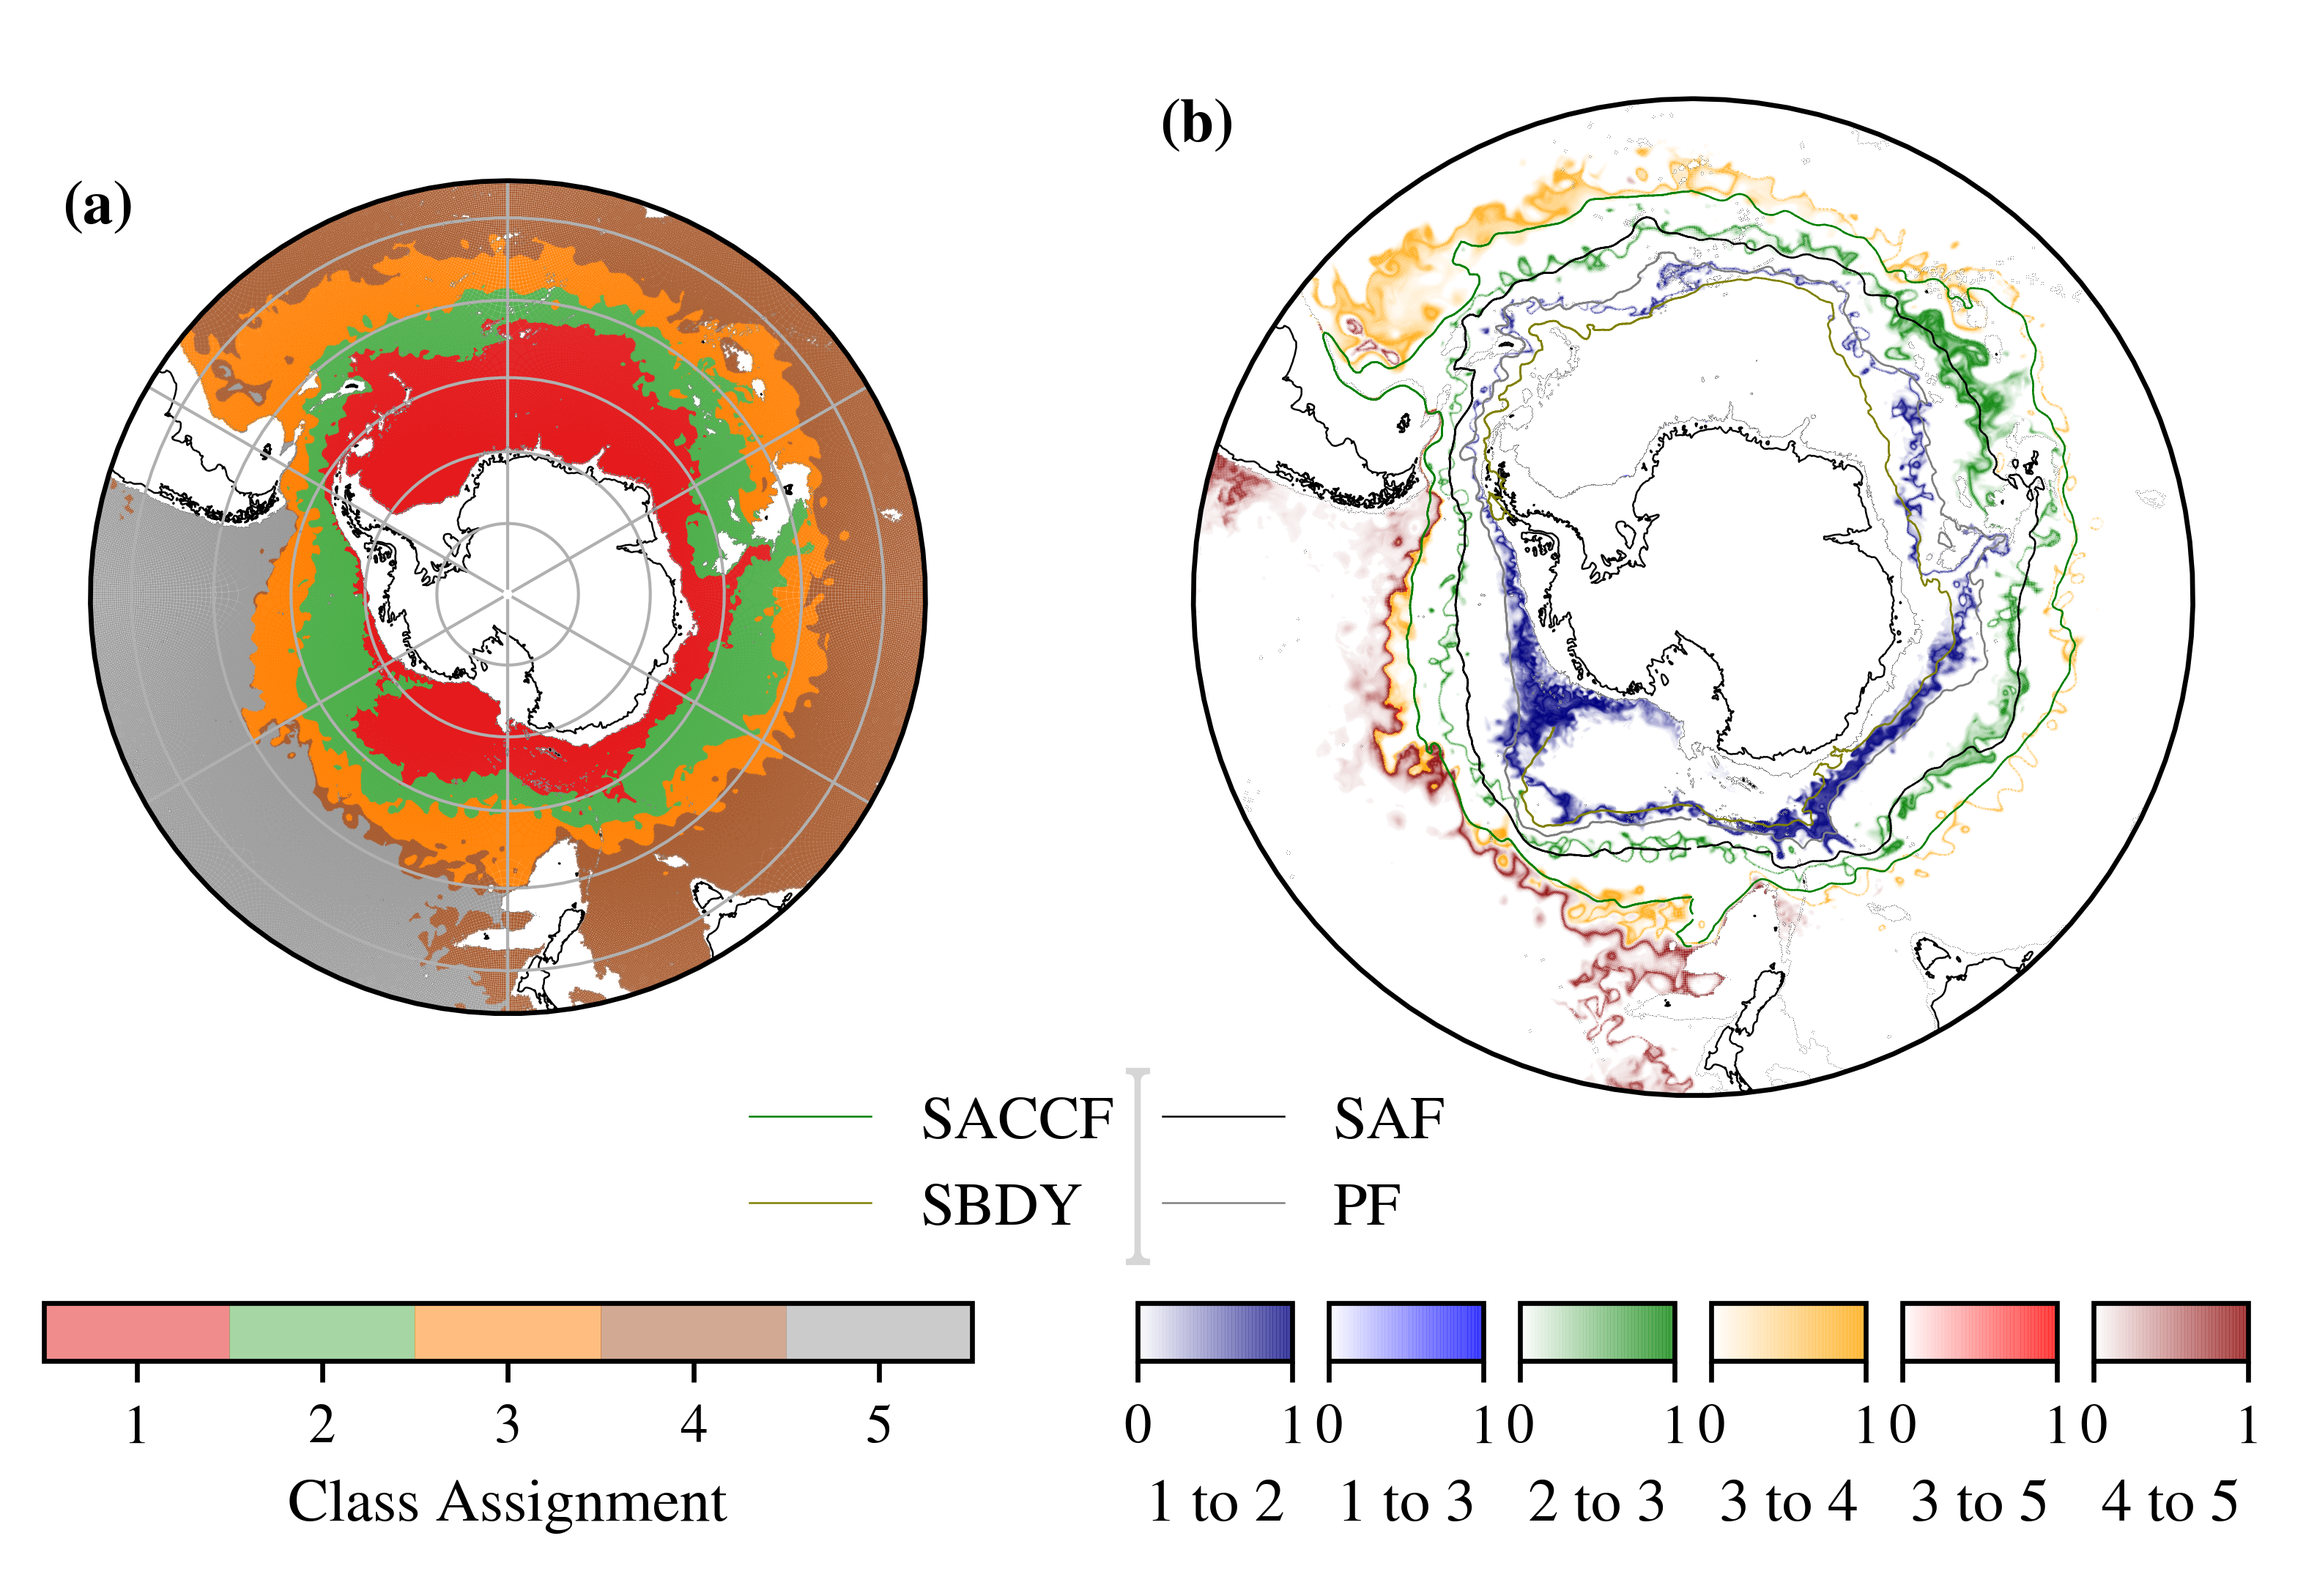
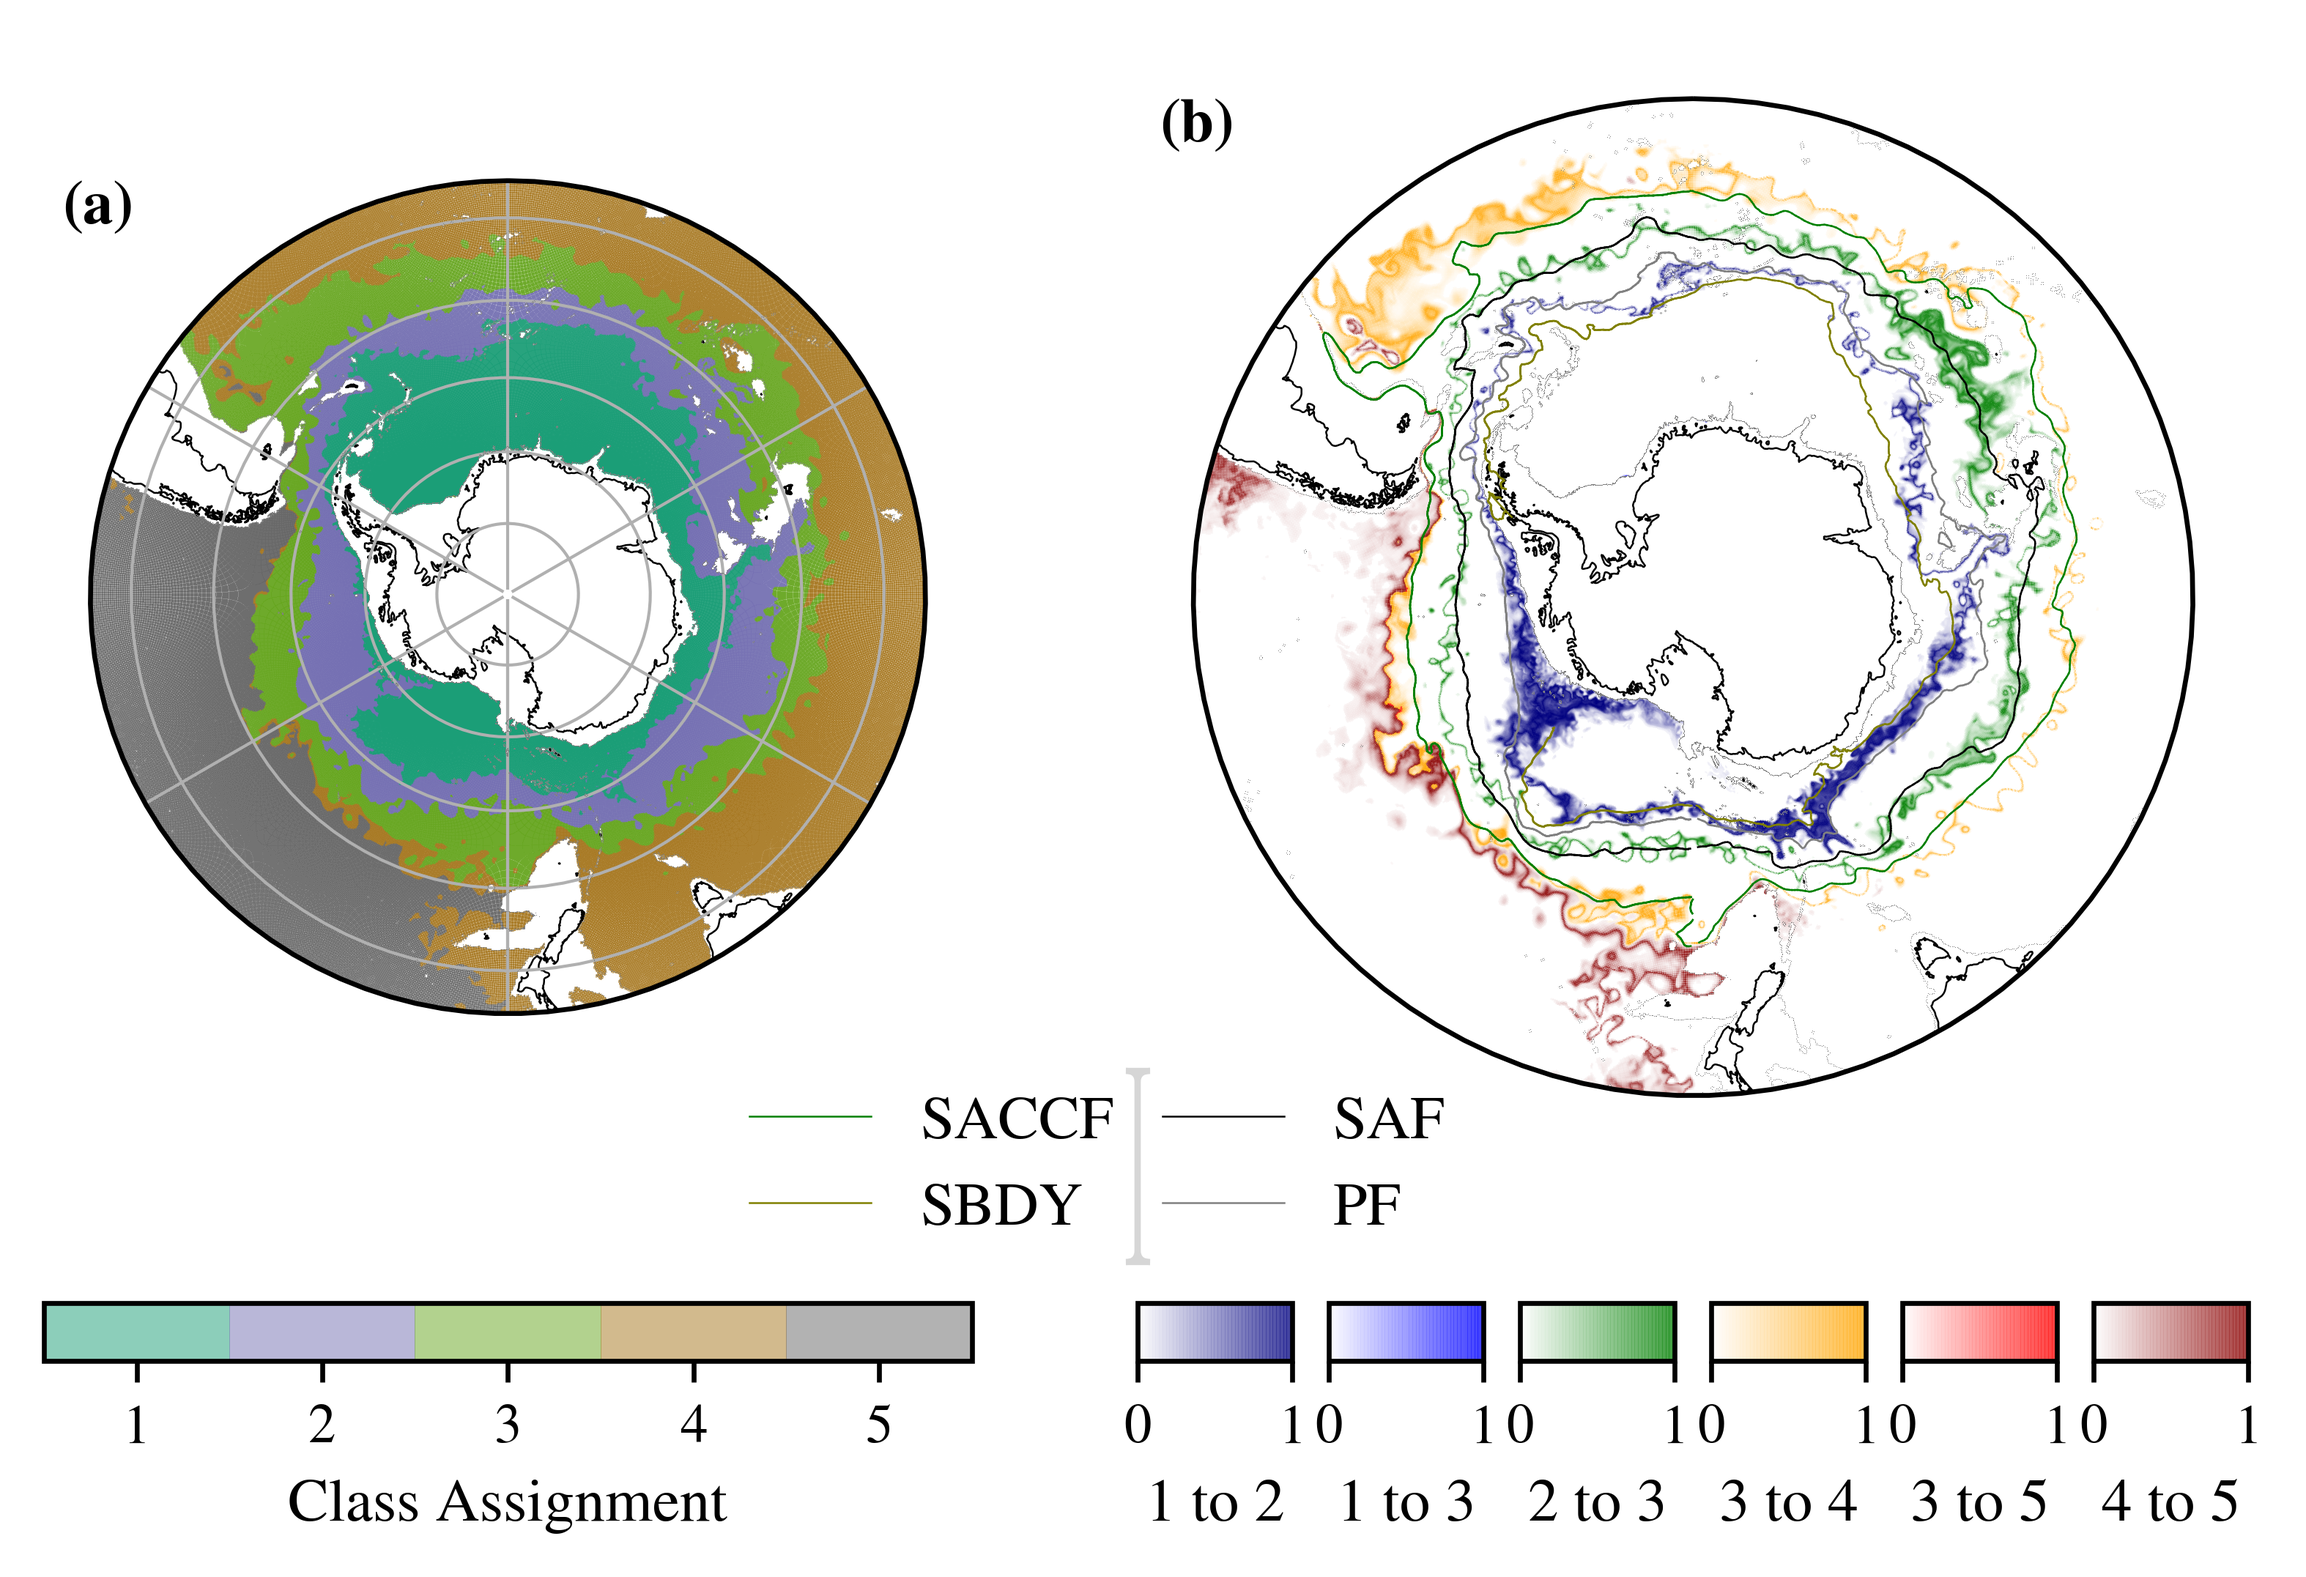
different colors

Changed region(s): [[0.0311, 0.1245, 0.4047, 0.6535], [0.0, 0.8091, 0.2802, 0.8713], [0.3424, 0.8091, 0.4358, 0.8713]]

diff --git a/src/plot/clust_3d.py b/src/plot/clust_3d.py
@@ -1,6 +1,5 @@
 """The purpose of this is the algorithm in 3D."""
 import numpy as np
-import matplotlib.cm as cm
 import matplotlib.pyplot as plt
 from matplotlib.gridspec import GridSpec
 import xarray as xr
@@ -98,7 +97,7 @@ def comp_3d(
                 principal_component_da.isel(pca=0).values.ravel(),
                 principal_component_da.isel(pca=1).values.ravel(),
                 principal_component_da.isel(pca=2).values.ravel(),
-                cmap=cm.get_cmap("Set1", len(weights)),
+                cmap=col.cluster_cmap(len(weights)),
                 c=ds.PCM_LABELS.values.ravel() + 1,
                 vmin=0.5,
                 vmax=len(weights) + 0.5,

diff --git a/src/plot/i_map.py b/src/plot/i_map.py
@@ -4,7 +4,6 @@ on the southern ocean map.
 """
 import numpy as np
 import xarray as xr
-import matplotlib.cm as cm
 import matplotlib.pyplot as plt
 from matplotlib.gridspec import GridSpec
 import cartopy.crs as ccrs
@@ -108,7 +107,7 @@ def map_imetric(da_i: xr.DataArray, da: xr.DataArray) -> None:
             im = da_i.plot(
                 ax=ax1,
                 add_colorbar=False,
-                cmap=cm.get_cmap("Set1", number_clusters),
+                cmap=col.cluster_cmap(number_clusters),
                 vmin=0.5,
                 vmax=number_clusters + 0.5,
                 transform=carree,

diff --git a/src/plot_utils/colors.py b/src/plot_utils/colors.py
@@ -10,9 +10,18 @@ def cluster_colors(number_clusters: int) -> np.ndarray:
     """Cluster colors.
 
     :param number_clusters: The number of clusters.
+    """
+    return cluster_cmap(number_clusters).colors
+
+
+def cluster_cmap(number_clusters: int):
+    """Cluster cmap.
+
+    :param number_clusters: The number of clusters.
     :return: cmap.
     """
-    return cm.get_cmap("Set1", number_clusters).colors
+    # "Set1"
+    return cm.get_cmap("Dark2", number_clusters)
 
 
 def replacement_color_list(number_of_colors: int) -> list:
